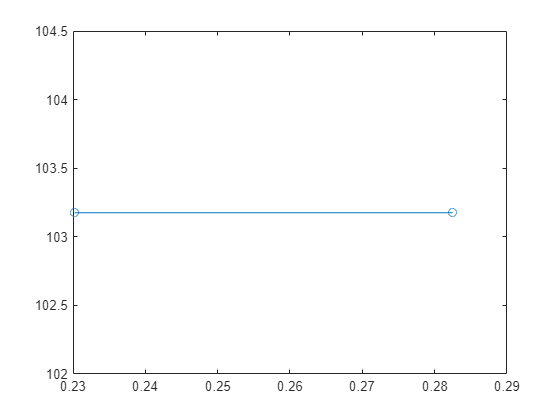
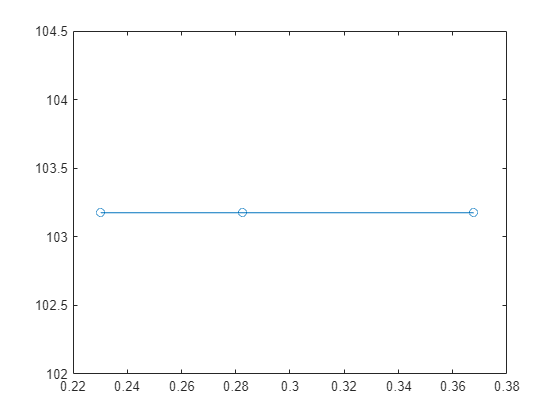
generated

diff --git a/report.md b/report.md
@@ -19,6 +19,7 @@ solvers
 |:--:|:--:|:--:|:--:|:--:|:--:|:--:|
 |1|07-Aug-2024 17:40:34|103.1756|0.2825|544.1268|'MAXPIL0T'|'e40e8a6b1ac3ec055b2fd92398bd616a01a589de'|
 |2|07-Aug-2024 18:35:16|103.1756|0.2302|538.8991|'MAXPIL0T'|'210f97a3c6ade05db23fa4d2ebb8ee12c0c0ad89'|
+|3|16-Aug-2024 14:49:39|103.1756|0.3678|552.6548|'MAXPIL0T'|'210f97a3c6ade05db23fa4d2ebb8ee12c0c0ad89'|
 
 ```matlab
 plot(solvers.computeTime,solvers.result,"-o")
